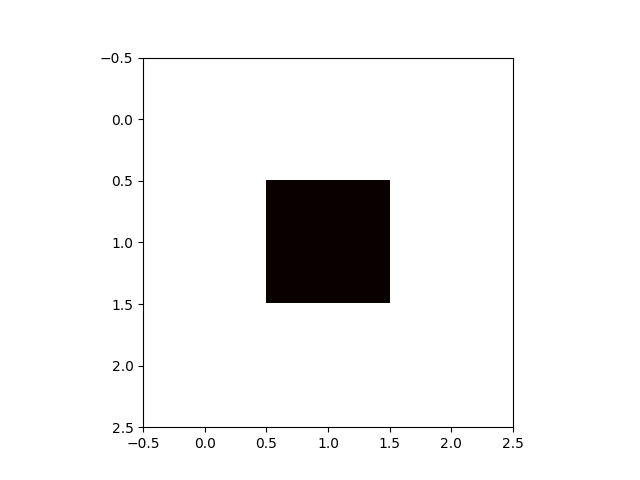
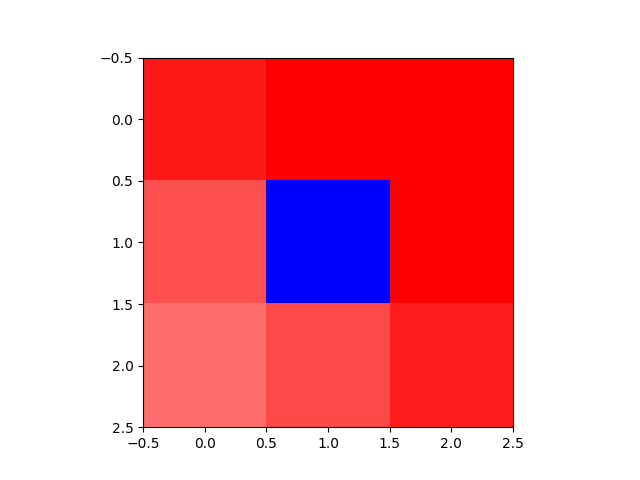
improve sectors

diff --git a/simulation.py b/simulation.py
@@ -33,6 +33,9 @@ def main():
         old_sectors = map.sectors
         for row in old_sectors:
             for current_sector in row:
+                if current_sector.sector_type == 6:
+                    continue
+
                 if current_sector.burn_level > 0 and current_sector.burn_level < 100 and current_sector.extinguish_level < current_sector.burn_level:
                     additional_burn = random.uniform(0.1, 2)
                     map.sectors[current_sector.row][current_sector.column].burn_level += additional_burn
@@ -69,7 +72,7 @@ def visualize_fire(map: ForestMap):
 
 
     # Plot the heatmap
-    plt.imshow(fire_sectors, cmap='hot', interpolation='nearest', vmin=-100, vmax=100)
+    plt.imshow(fire_sectors, cmap='bwr', interpolation='nearest', vmin=-100, vmax=100)
 
     # cbar = plt.colorbar()
     # cbar.set_label('Burn Level')

diff --git a/simulation/forest_map.py b/simulation/forest_map.py
@@ -65,6 +65,29 @@ class ForestMap:
             "sectors": sectors_
         }
 
+        # parse this json to object:
+        # "sensors": [
+        #     {
+        #         "sensorId": 0,
+        #         "sensorType": 1,
+        #         "location": {
+        #             "longitude": 50.5,
+        #             "latitude": 50.5
+        #         },
+        #         "timestamp": "<built-in method now of type object at 0x1025c8980>"
+        #     },
+        #     {
+        #         "sensorId": 3,
+        #         "sensorType": 1,
+        #         "location": {
+        #             "longitude": 50.5,
+        #             "latitude": 51.5
+        #         },
+        #         "timestamp": "<built-in method now of type object at 0x1025c8980>"
+        #     },
+
+
+
         return ForestMap(**values)
 
     @property

diff --git a/simulation/sectors/sector.py b/simulation/sectors/sector.py
@@ -21,6 +21,7 @@ class Sector:
         self._state = initial_state
         self._extinguish_level = 0 #scale 0-100
         self._burn_level = 0 #scale 0-100
+        self._sensors = []
 
     @property
     def sector_id(self) -> int:
@@ -57,3 +58,14 @@ class Sector:
     @extinguish_level.setter
     def extinguish_level(self, extinguish):
         self._extinguish_level = extinguish
+
+    @property
+    def sensors(self):
+        return self._sensors
+
+    def add_sensor(self, sensor):
+        self._sensors.append(sensor)
+
+    def remove_sensor(self, sensor):
+        self._sensors.remove(sensor)
+
